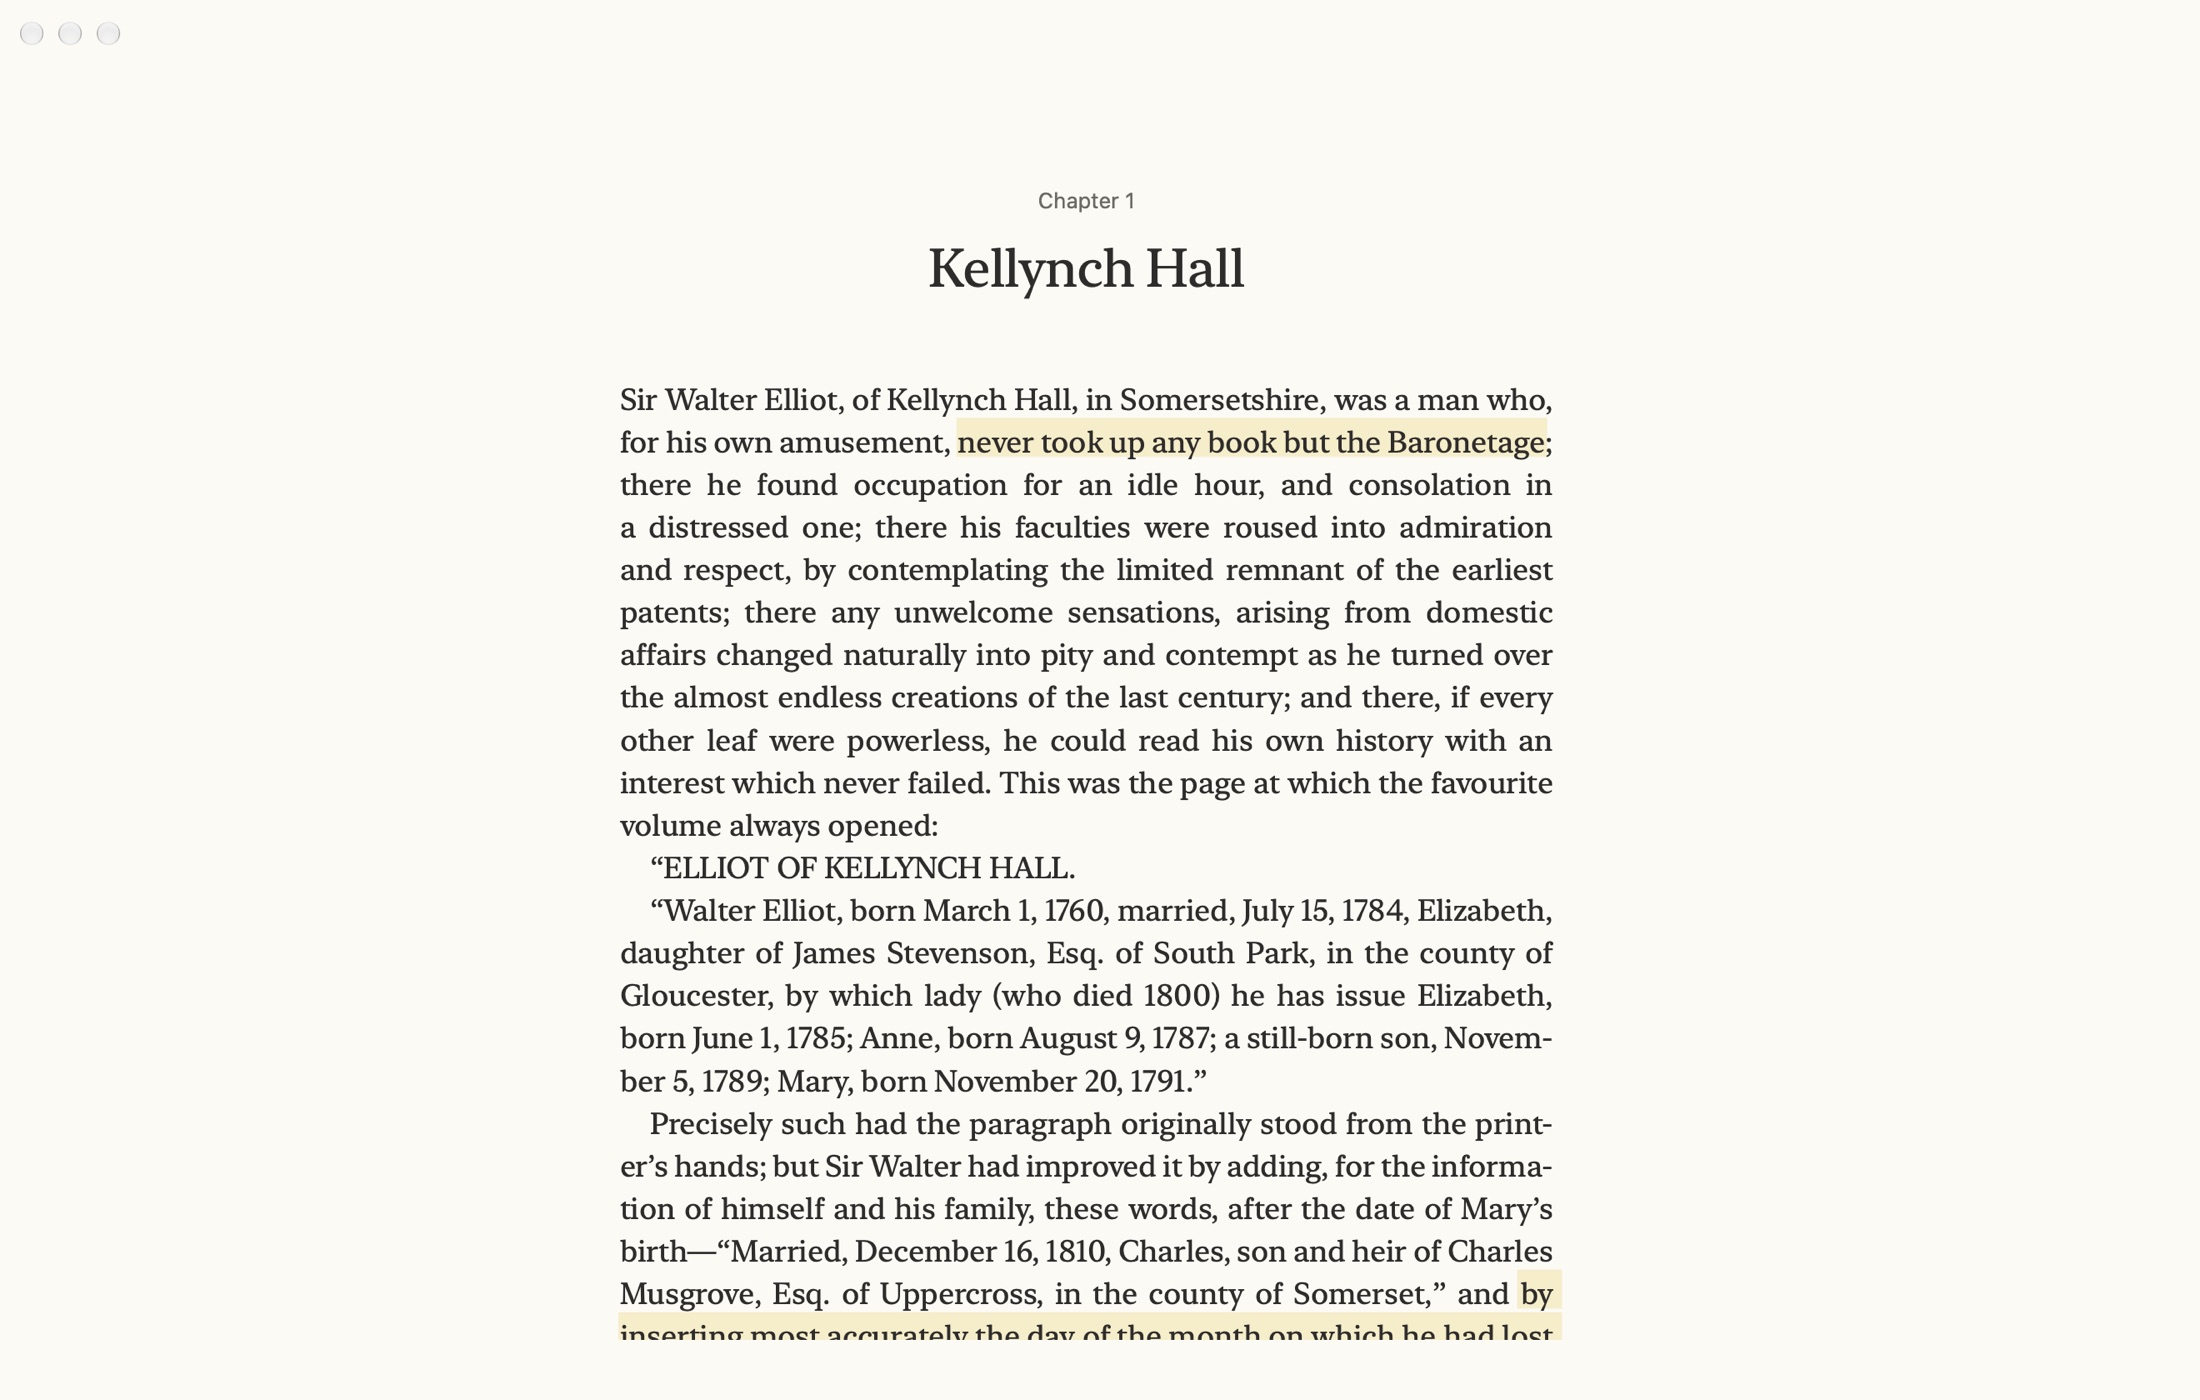
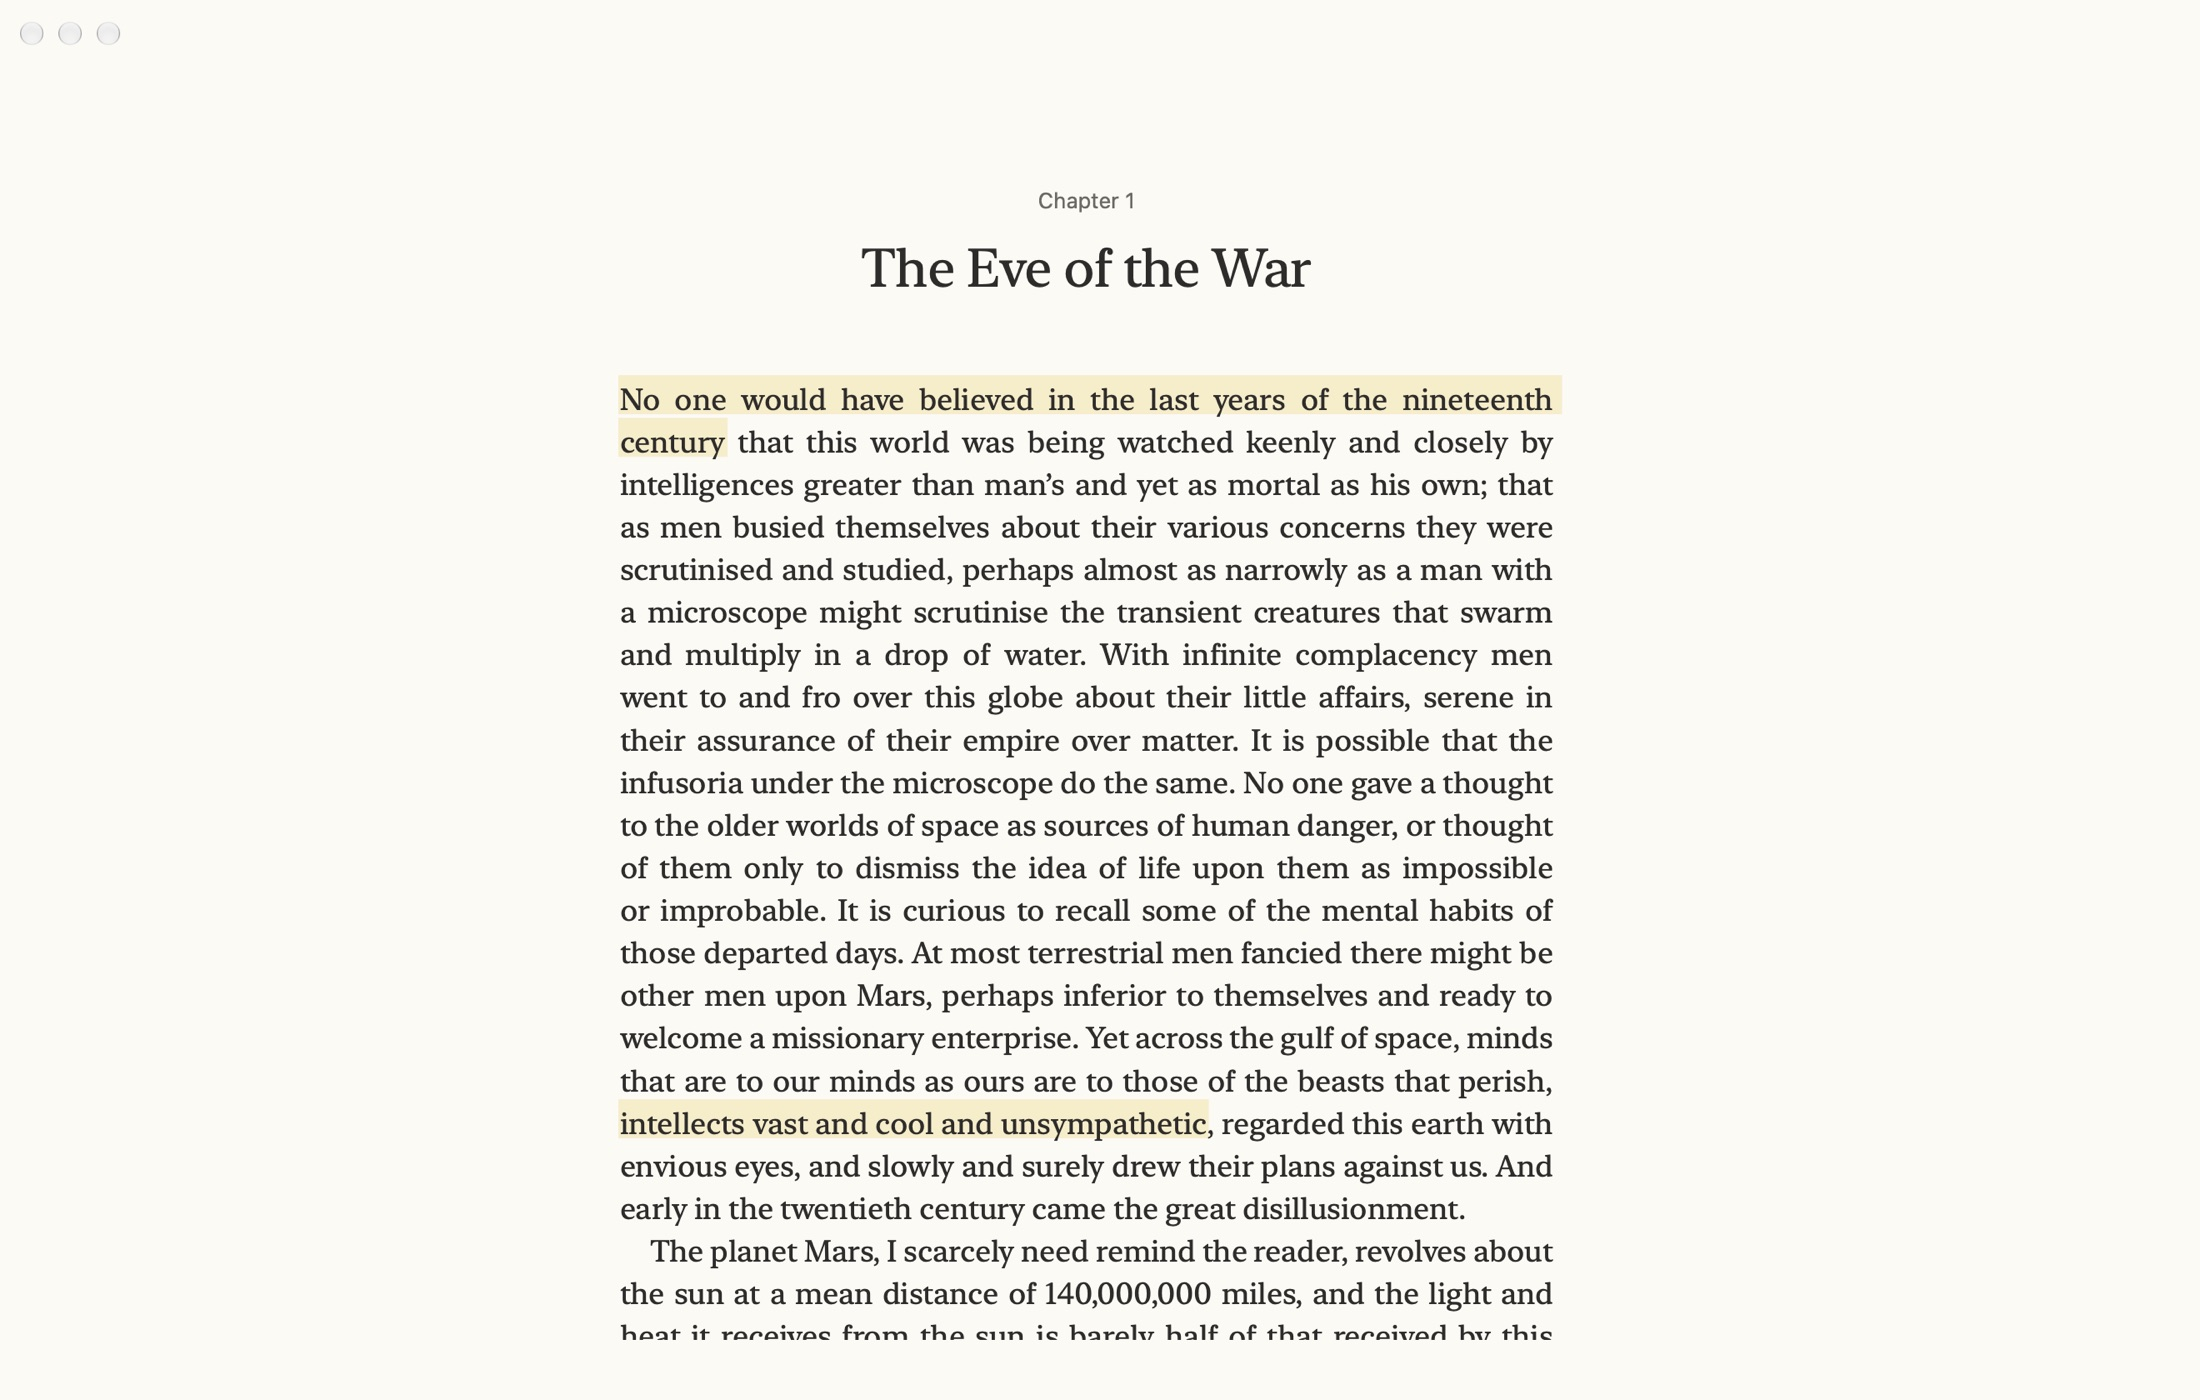
Screenshots: space books from Project Gutenberg

Changed region(s): [[0.2782, 0.2457, 0.7109, 0.9829], [0.4018, 0.1536, 0.5873, 0.215]]

diff --git a/docs/index.html b/docs/index.html
@@ -225,8 +225,8 @@ var ASSET = "Longhand.zip";
 
 // The pictures shown in the window, in turn (each has a light and a dark copy).
 var SHOTS = [
-  { name: "chapter",   alt: "A chapter of Persuasion open in Longhand, with the author's comments in the margin" },
-  { name: "library",   alt: "Longhand's library of four novels, each with its stage and word count" },
+  { name: "chapter",   alt: "A chapter of The War of the Worlds open in Longhand, with the author's comments in the margin" },
+  { name: "library",   alt: "Longhand's library of space books, from A Princess of Mars to Einstein's Relativity, each with its stage and word count" },
   { name: "compare",   alt: "Longhand comparing two drafts of a scene, words removed in red and added in green" },
   { name: "cleardesk", alt: "Clear Desk: only the page, set in New York" },
   { name: "palette",   alt: "The command palette, going to a scene by name" }

diff --git a/scripts/tools/make_site_library.py b/scripts/tools/make_site_library.py
@@ -1,12 +1,13 @@
 #!/usr/bin/env python3 -I
-"""Builds the library pictured on the website: four of Jane Austen's novels (public domain,
-Project Gutenberg), each with its stage and synopsis. Persuasion is the one shown open: three
-chapters split into named scenes, with scene statuses and two of the author's comments.
+"""Builds the library pictured on the website: space books in the public domain, from Project
+Gutenberg. The War of the Worlds is the one shown open: its first three chapters split into
+named scenes, with scene statuses and two comments. The others give the library its shelf.
 
-    python3 -I scripts/tools/make_site_library.py "/tmp/site/Novels" <folder with pg105.txt pg158.txt pg121.txt pg1342.txt>
+    python3 -I scripts/tools/make_site_library.py "/tmp/site/Space" <folder of pg<n>.txt files>
 
-The texts come from https://www.gutenberg.org/cache/epub/<n>/pg<n>.txt. Never touches the
-owner's library. The chapter and scene names are ours: Austen numbered her chapters."""
+Texts: https://www.gutenberg.org/cache/epub/<n>/pg<n>.txt for n = 36, 62, 1013, 83, 30155.
+Chapter titles are the authors'; scene names, statuses, stages and comments are ours. Never
+touches the owner's library."""
 import json
 import os
 import re
@@ -14,20 +15,35 @@ import sys
 import uuid
 
 out, src = sys.argv[1], sys.argv[2]
+SMALL = {"a", "an", "and", "as", "at", "by", "for", "from", "in", "of", "on", "or", "the", "to", "with"}
+
+
+def title_case(heading):
+    heading = heading.strip().rstrip(".")
+    if heading != heading.upper():
+        return heading
+    words = heading.lower().split(" ")
+    return " ".join(w if (i and w in SMALL) else w[:1].upper() + w[1:] for i, w in enumerate(words))
 
 
 def chapters_of(number):
-    raw = open(os.path.join(src, f"pg{number}.txt"), encoding="utf-8").read().replace("\r\n", "\n")
-    start = re.search(r"(CHAPTER|Chapter) (I|1)\.?\]?\n", raw).start()
-    body = raw[start:raw.index("*** END")]
-    body = re.sub(r"\[Illustration[^\]]*\]", "", body, flags=re.S)
-    parts = re.split(r"\n[ \t]*(?:CHAPTER|Chapter) [IVXLC\d]+\.?\]?[ \t]*\n", "\n" + body)
-    return [p.strip() for p in parts if len(p.split()) > 200]
+    """[(title, text)] for each chapter: a line "I." or "CHAPTER I", then the title line."""
+    lines = open(os.path.join(src, f"pg{number}.txt"), encoding="utf-8").read().replace("\r\n", "\n").split("\n")
+    end = next(i for i, l in enumerate(lines) if l.startswith("*** END"))
+    heads = [i for i, l in enumerate(lines[:end]) if re.fullmatch(r"(CHAPTER )?[IVXL]+\.?", l.strip())]
+    chapters = []
+    for n, at in enumerate(heads):
+        title_at = next(i for i in range(at + 1, end) if lines[i].strip())
+        stop = heads[n + 1] if n + 1 < len(heads) else end
+        body = "\n".join(lines[title_at + 1:stop])
+        if len(body.split()) > 200:
+            chapters.append((title_case(lines[title_at]), body))
+    return chapters
 
 
-def paragraphs(chapter):
-    ps = [re.sub(r"\s*\n\s*", " ", p).strip() for p in chapter.split("\n\n") if p.strip()]
-    return [p.replace("_", "*") for p in ps]
+def paragraphs(text):
+    ps = [re.sub(r"\s*\n\s*", " ", p).strip() for p in text.split("\n\n") if p.strip()]
+    return [p.replace("_", "*") for p in ps if not p.startswith("[Illustration")]
 
 
 def write_json(path, data):
@@ -42,55 +58,55 @@ def comment(text, quote, note):
             "length": len(quote.encode("utf-16-le")) // 2, "quote": quote, "prefix": "", "suffix": ""}
 
 
-AUTHOR = {"authorName": "Jane Austen", "form": "novel", "genre": "Classics"}
+# folder, Gutenberg number, scene names per chapter, details for the story's page
 books = [
-    # folder, Gutenberg number, chapters as (title, [scene names]), book details
-    ("01 Persuasion", 105, [
-        ("Kellynch Hall", ["The Baronetage", "Sir Walter", "Elizabeth", "Anne"]),
-        ("Retrenchment", ["Mr Shepherd", "Lady Russell", "The Plan"]),
-        ("The Admiral", ["A Tenant", "Captain Wentworth"]),
-    ], {"stage": "draft", "target": 85000,
-        "synopsis": "Eight years after she was persuaded to break off her engagement to a penniless "
-                    "naval officer, Anne Elliot meets him again."}),
-    ("02 Emma", 158, [(f"Chapter {n}", ["Scene 1", "Scene 2"]) for n in (1, 2, 3)],
-     {"stage": "manuscript",
-      "synopsis": "Handsome, clever and rich, Emma Woodhouse arranges everyone's marriages but her own."}),
-    ("03 Northanger Abbey", 121, [(f"Chapter {n}", ["Scene 1", "Scene 2"]) for n in (1, 2)],
-     {"stage": "sketch",
-      "synopsis": "Catherine Morland has read too many Gothic novels to see Bath, or the Abbey, plainly."}),
-    ("04 Pride and Prejudice", 1342, [(f"Chapter {n}", ["Scene 1"]) for n in (1, 2)],
-     {"stage": "idea",
-      "synopsis": "A single man in possession of a good fortune, and five daughters in want of husbands."}),
+    ("01 The War of the Worlds", 36,
+     [["Watched", "The Red Planet", "Ogilvy's Telescope", "Flashes"], ["The Meteor", "Horsell Common"],
+      ["The Crowd", "The Lid Turns"]],
+     {"authorName": "H. G. Wells", "form": "novel", "genre": "Science Fiction", "stage": "draft", "target": 60000,
+      "synopsis": "The Martians land on Horsell Common, and a writer watches England fall to the heat-ray."}),
+    ("02 A Princess of Mars", 62, [["Scene 1", "Scene 2"]] * 3,
+     {"authorName": "Edgar Rice Burroughs", "form": "novel", "genre": "Science Fiction", "stage": "manuscript",
+      "synopsis": "A Confederate veteran wakes on Mars, among green giants and the princess Dejah Thoris."}),
+    ("03 The First Men in the Moon", 1013, [["Scene 1", "Scene 2"]] * 2,
+     {"authorName": "H. G. Wells", "form": "novel", "genre": "Science Fiction", "stage": "sketch",
+      "synopsis": "A bankrupt would-be playwright and an absent-minded scientist ride a sphere of Cavorite to the Moon."}),
+    ("04 From the Earth to the Moon", 83, [["Scene 1"]] * 2,
+     {"authorName": "Jules Verne", "form": "novel", "genre": "Science Fiction", "stage": "idea",
+      "synopsis": "The Baltimore Gun Club decides to fire a shell at the Moon, and then to ride inside it."}),
+    ("05 Relativity", 30155, [["Section"]] * 3,
+     {"authorName": "Albert Einstein", "form": "essay", "stage": "manuscript",
+      "synopsis": "The special and general theories, explained for readers with no more than school mathematics."}),
 ]
-status = {("01 Persuasion", 1, 1): "revised", ("01 Persuasion", 1, 2): "revised",
-          ("01 Persuasion", 1, 3): "draft", ("01 Persuasion", 2, 1): "draft"}
+status = {(1, 1, 1): "revised", (1, 1, 2): "revised", (1, 1, 3): "draft", (1, 2, 1): "draft"}
 
 os.makedirs(os.path.join(out, ".longhand"), exist_ok=True)
-json.dump({"version": 1, "name": "Novels"}, open(os.path.join(out, ".longhand/library.json"), "w"))
+json.dump({"version": 1, "name": "Space"}, open(os.path.join(out, ".longhand/library.json"), "w"))
 
-for book, number, plan, details in books:
+for b, (book, number, plan, details) in enumerate(books, 1):
     chapters = chapters_of(number)
-    write_json(os.path.join(out, ".longhand/scenes", book + ".json"), {**AUTHOR, **details})
-    for n, (title, scenes) in enumerate(plan, 1):
-        ps = paragraphs(chapters[n - 1])
+    write_json(os.path.join(out, ".longhand/scenes", book + ".json"), details)
+    for n, scenes in enumerate(plan, 1):
+        title, body = chapters[n - 1]
+        ps = paragraphs(body)
         size = -(-len(ps) // len(scenes))
-        folder = f"{n:02d} {title}"
+        folder = f"{n:02d} {title.replace('/', '-')}"
         os.makedirs(os.path.join(out, book, folder), exist_ok=True)
         for i, name in enumerate(scenes, 1):
             part = ps[(i - 1) * size:i * size]
             if not part:
                 continue
             text = "\n\n".join(part) + "\n"
-            scene = f"{i:02d} {name}"
+            scene = f"{i:02d} {name if name != 'Section' else title}"
             open(os.path.join(out, book, folder, scene + ".md"), "w", encoding="utf-8").write(text)
-            if (book, n, i) in status:
+            if (b, n, i) in status:
                 write_json(os.path.join(out, ".longhand/scenes", book, folder, scene + ".json"),
-                           {"status": status[(book, n, i)]})
-            if (book, n, i) == ("01 Persuasion", 1, 1):
-                notes = [comment(text, "never took up any book but the Baronetage",
-                                 "Open on the one book he reads. Keep."),
-                         comment(text, "by inserting most accurately the day of the month on which he had lost his wife",
-                                 "Cruel and funny. Does Anne ever see this page?")]
+                           {"status": status[(b, n, i)]})
+            if (b, n, i) == (1, 1, 1):
+                notes = [comment(text, "No one would have believed in the last years of the nineteenth century",
+                                 "Keep. The whole book is in this sentence."),
+                         comment(text, "intellects vast and cool and unsympathetic",
+                                 "Best phrase in the chapter. Don't touch it.")]
                 write_json(os.path.join(out, ".longhand/comments", book, folder, scene + ".json"),
                            {"version": 1, "comments": notes})
 print("written", out)

diff --git a/README.md b/README.md
@@ -2,33 +2,24 @@
 
 ![Longhand: Write where you are.](docs/images/readme-banner.jpg)
 
-A writing app for fiction, essays and more, saved as .md files and tracked with Git.
+A writing app for fiction, essays and more, saved as .md files and tracked with Git. Free, for Mac (macOS 26 or later).
 
-**Download:** [the latest release](https://github.com/spec-proj/longhand/releases/latest)
-**Screenshots:** [spec-proj.github.io/longhand](https://spec-proj.github.io/longhand/)
+**Download:** [the latest release](https://github.com/spec-proj/longhand/releases/latest) · **Website:** [spec-proj.github.io/longhand](https://spec-proj.github.io/longhand/)
 
-## Features
+Longhand isn't from the App Store, so macOS asks before opening it the first time. Open it once, then choose System Settings › Privacy & Security › Open Anyway.
 
-- **Stories, chapters and scenes.** A 'story' is a folder of documents, with chapters broken up into scenes. (Later versions will include more short-form friendly layouts)
-- **Git for writers.** Longhand is built to use Git/hub for tracking changes, versioning, and backing up your work, whether you do so locally or online.
-- **Simple, macOS-forward design.**, mostly keyboard-operable, and includes a VS Code-style command palette. Hide or show any UI element, or clear everything to focus on writing.
-- **Typewriter scrolling, line/word focus, word count target** as well as comments and notes per scene, per chapter, and even per book. View your book or chapter in card view, rearrange your story, and switch back to read it as prose. 
-- **A beautiful library,** with folders, author profiles and (optional) cover images. You can store multiple author profiles and set pen names. Save your work in standard manuscript formats or export as .pdf or .epub.
-- **Future-proof** - your files are written in Markdown, stored as .md's and organised by the app with .json files.
+## What it does
 
-_Longhand isn't notarised, so macOS asks before opening it the first time. Open it once, then choose System Settings › Privacy & Security › Open Anyway._
+- **Stories, chapters and scenes.** Each scene is a plain Markdown file in a folder you choose, named and ordered so the folder reads like the book. Your writing never depends on Longhand.
+- **A chapter reads like a book**, and you can write in it directly. Comments and notes sit in the margin.
+- **Git, in plain words.** Commits, branches for rewrites, Compare with changes marked word by word, and push to GitHub, any Git server or a folder.
+- **Clear Desk, focus and typewriter scrolling**, themes, and export to Word, PDF, a print-ready book PDF and EPUB.
 
----
-
-Contribute: [Building Longhand](CONTRIBUTING.md).
+Want to build it yourself? See [Building Longhand](CONTRIBUTING.md).
 
 ## Credits
 
-Themes: `third_party/THEMES.md`. 
-Photographs: NASA. 
-Text: Jane Austen, from Project Gutenberg.
-
-This is a vibe-coded project. I am not a developer, I just have a Claude license from work and refuse to pay for Ulysses or Scrivener. I wanted something that blended the two and decided to just go for it. If the code sucks, let me know!
+Theme colours come from the projects listed in `third_party/THEMES.md`. The website's photographs are from NASA on The Commons. Its screenshots show space books in the public domain (Wells, Burroughs, Verne and Einstein), from Project Gutenberg.
 
 ## Licence
 
